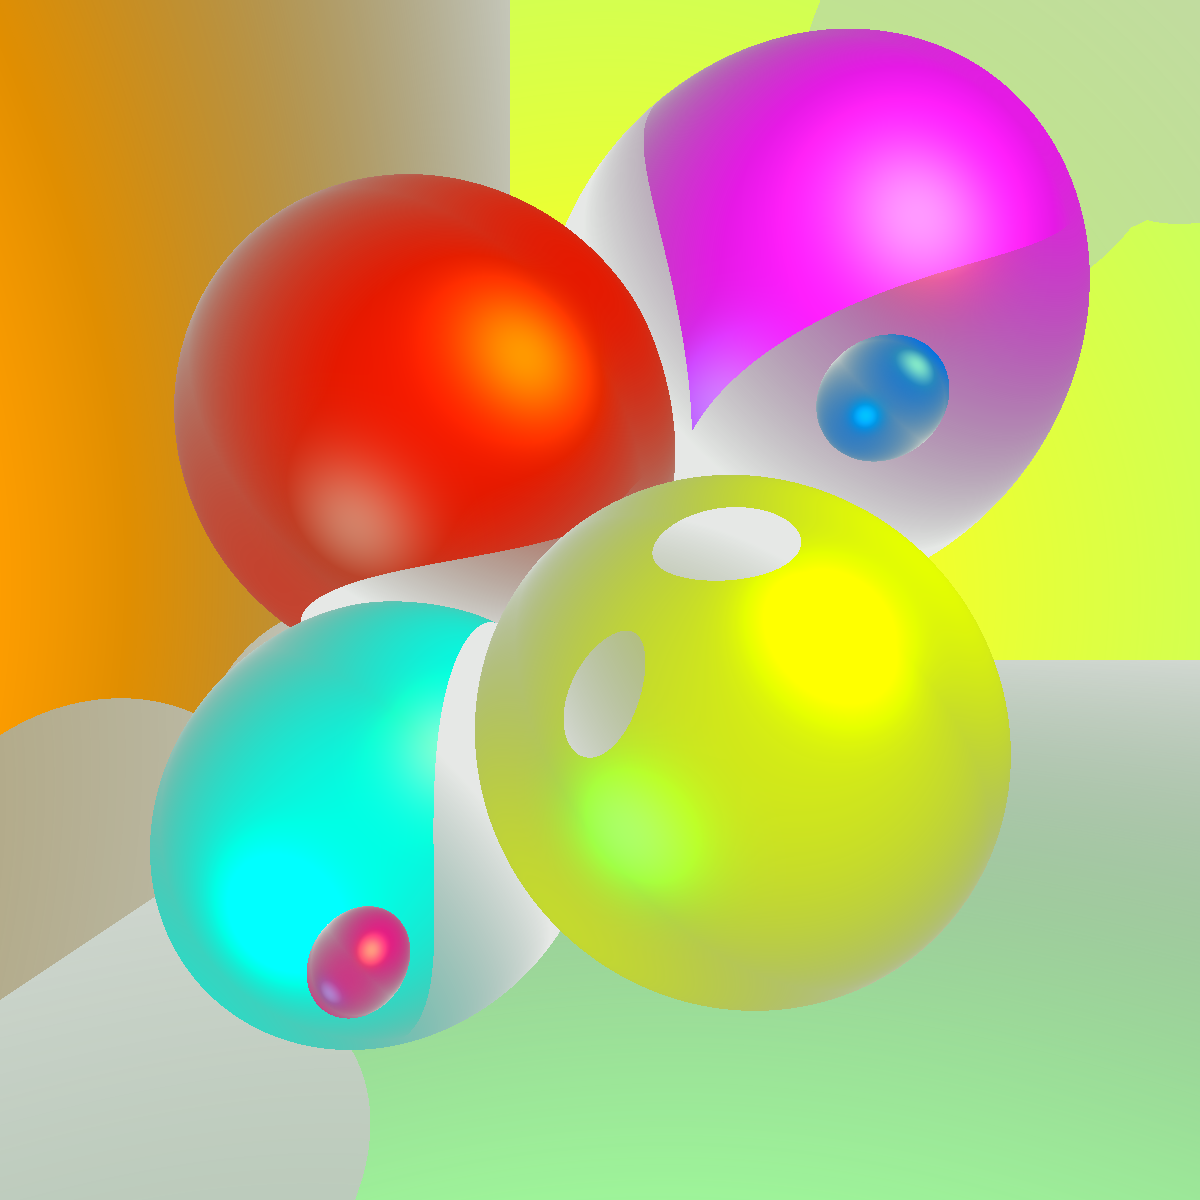
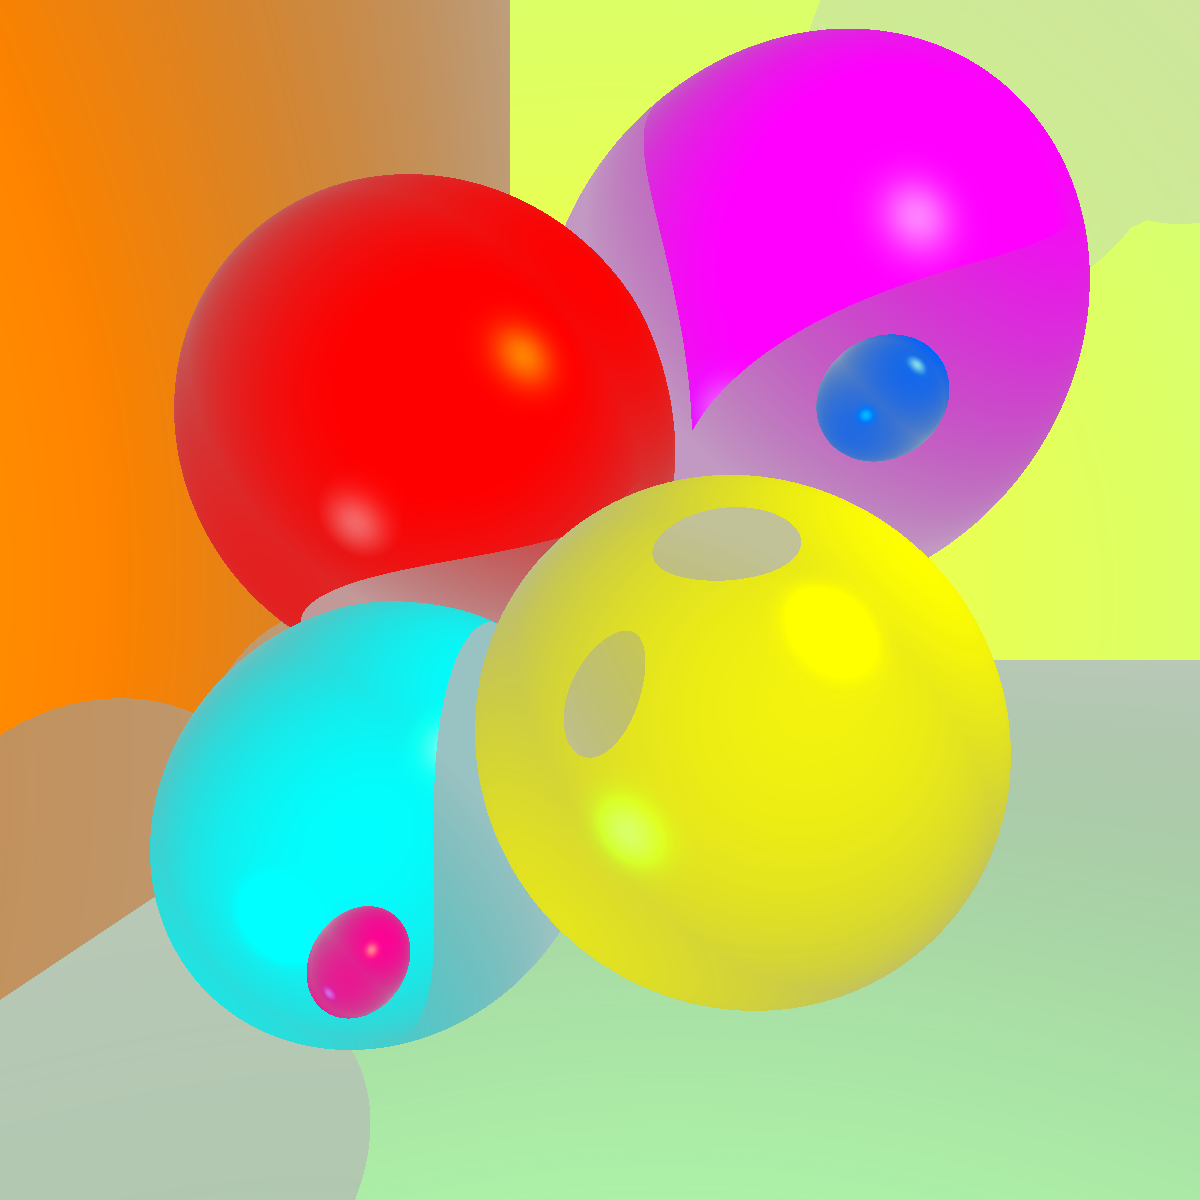
fixed ambient lighting to use RTShape color, not default scene color

diff --git a/src/main/java/shading/PhongShader.java b/src/main/java/shading/PhongShader.java
@@ -26,7 +26,6 @@ import java.util.ArrayList;
 
 public class PhongShader implements Shader {
     private final Scene scene;
-    private final RTColor ambientColor;
     private final double ambientComponentCoefficient;
     private final double diffuseComponentCoefficient;
     private final double specularComponentCoefficient;
@@ -36,8 +35,8 @@ public class PhongShader implements Shader {
      * Constructors
      */
     /*
-       Constructor from a Scene, that sets the ambient color
-       and the three coefficients to default values.
+       Constructor from a Scene, that sets the four coefficients
+       to default values.
 
        The values of the coefficients have been experimented
        with to minimise the chance of color values leaving
@@ -46,20 +45,18 @@ public class PhongShader implements Shader {
      */
     public PhongShader(Scene scene) {
         this.scene = scene;
-        this.ambientColor = new RTColor(0.0, 1.0, 0.0, 1.0);
-        this.ambientComponentCoefficient = 0.1;
-        this.diffuseComponentCoefficient = 0.9;
+        this.ambientComponentCoefficient = 0.4;
+        this.diffuseComponentCoefficient = 0.6;
         this.specularComponentCoefficient = 0.5;
 
-        this.phongRoughnessCoefficient = 8;
+        this.phongRoughnessCoefficient = 40;
     }
     /*
-       Constructor from a Scene, that customises the ambient
-       color and the three coefficients.
+       Constructor from a Scene, that allows
+       customisation of the four coefficients.
      */
-    public PhongShader(Scene scene, RTColor ambientColor, double ka, double kd, double ks, double n) {
+    public PhongShader(Scene scene, double ka, double kd, double ks, double n) {
         this.scene = scene;
-        this.ambientColor = ambientColor;
         this.ambientComponentCoefficient = ka;
         this.diffuseComponentCoefficient = kd;
         this.specularComponentCoefficient = ks;
@@ -83,7 +80,7 @@ public class PhongShader implements Shader {
         ArrayList<Light> lights = this.scene.getLights();
 
         /// ambient illumination
-        RTColor ambientComponent = this.getAmbientComponent();
+        RTColor ambientComponent = this.getAmbientComponent(intersectedShape, intersectionPoint);
 
         /// diffuse illumination
         RTColor diffuseComponent = RTColor.blank;
@@ -105,10 +102,11 @@ public class PhongShader implements Shader {
         return ambientComponent.added(diffuseComponent).added(specularComponent);
     }
     /*
-       Method to evaluate the ambient illumination component.
+       Method to evaluate the ambient illumination component,
+       for a given RTShape.
      */
-    private RTColor getAmbientComponent() {
-        return this.ambientColor.scaled(this.ambientComponentCoefficient);
+    private RTColor getAmbientComponent(RTShape intersectedShape, Vector3D intersectionPoint) {
+        return intersectedShape.getColorAt(intersectionPoint).scaled(this.ambientComponentCoefficient);
     }
     /*
        Method to evaluate the diffuse illumination component,
@@ -117,16 +115,16 @@ public class PhongShader implements Shader {
        Diffuse component is view independent, i.e. does not depend
        on the position of the camera.
      */
-    private RTColor getDiffuseComponent(RTShape shape, Vector3D point, Light light) {
+    private RTColor getDiffuseComponent(RTShape intersectedShape, Vector3D intersectionPoint, Light light) {
         /// unit vector from the given point to this light
-        Vector3D lightDirection = light.getPosition().added(point.negated()).normalised();
+        Vector3D lightDirection = light.getPosition().added(intersectionPoint.negated()).normalised();
         /// unit normal to surface of the shape at the given point
-        Vector3D unitNormal = shape.getUnitNormalAt(point);
+        Vector3D unitNormal = intersectedShape.getUnitNormalAt(intersectionPoint);
 
         /// take max with 0, so that only the side of the surface facing the light is illuminated
         double diffuseCoefficient = this.diffuseComponentCoefficient * light.getIntensity() * Math.max(0.0, lightDirection.scalarProduct(unitNormal));
 
-        return shape.getColorAt(point).scaled(diffuseCoefficient);
+        return intersectedShape.getColorAt(intersectionPoint).scaled(diffuseCoefficient);
     }
     /*
        Method to evaluate the specular illumination component,
@@ -140,13 +138,13 @@ public class PhongShader implements Shader {
 
        TODO - The camera is currently fixed at (0,0,0) - think about being able to change camera position
      */
-    private RTColor getSpecularComponent(RTShape shape, Vector3D point, Light light) {
+    private RTColor getSpecularComponent(RTShape intersectedShape, Vector3D intersectionPoint, Light light) {
         /// unit vector from the given point to this light
-        Vector3D lightDirection = light.getPosition().added(point.negated()).normalised();
+        Vector3D lightDirection = light.getPosition().added(intersectionPoint.negated()).normalised();
         /// unit normal to surface of the shape at the given point
-        Vector3D unitNormal = shape.getUnitNormalAt(point);
+        Vector3D unitNormal = intersectedShape.getUnitNormalAt(intersectionPoint);
         /// unit vector from the given point to the camera
-        Vector3D viewDirection = (new Vector3D(0,0,0)).added(point.negated()).normalised();
+        Vector3D viewDirection = (new Vector3D(0,0,0)).added(intersectionPoint.negated()).normalised();
         /// perfect specular reflection direction of the light at this point
         Vector3D reflectionDirection = lightDirection.reflected(unitNormal);
 

diff --git a/src/main/java/shapes/RTShape.java b/src/main/java/shapes/RTShape.java
@@ -15,6 +15,9 @@ import tracing.Ray;
  *      public static RTShape parseShape(Map<String,String> attributes){}
  * TO PARSE THE SHAPE FROM A MAP MAPPING ITS ATTRIBUTES NAMES
  * TO THEIR VALUES.
+ *
+ * TODO - each shape should have an instance variable that controls the
+ *        material properties (coefficients for Phong shading)
  */
 public interface RTShape {
     /*
